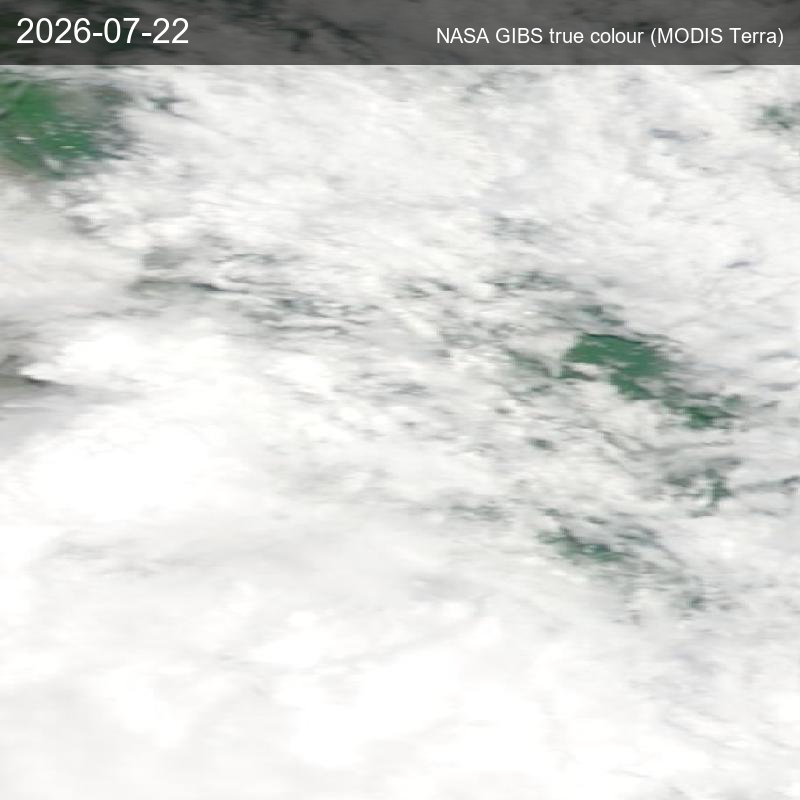
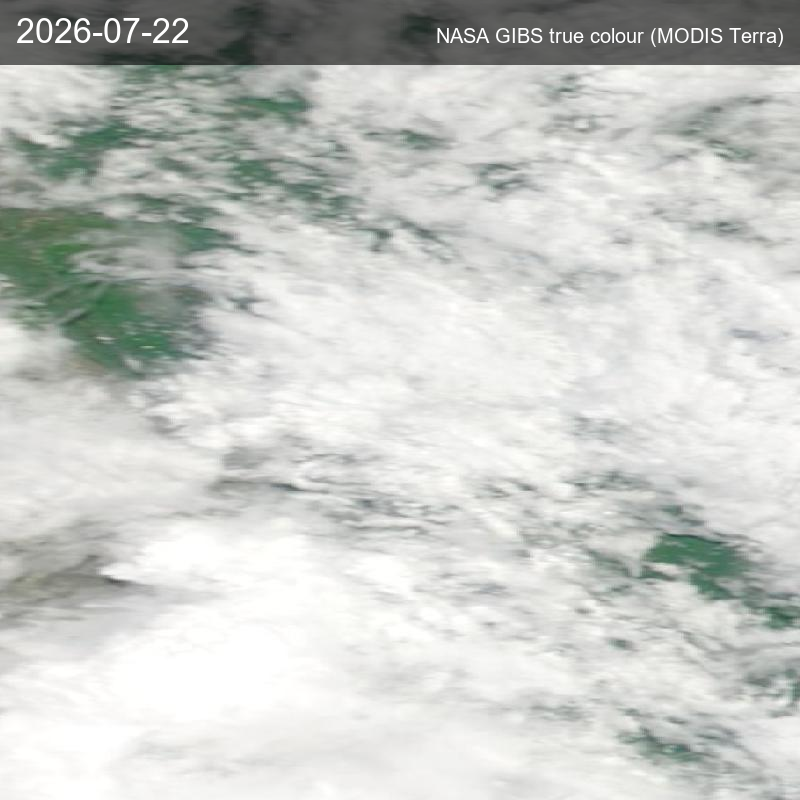
Make the GIBS July download reproducible and align the NASA dataset list with the form
Adds fetch_gibs_july.py and make_gibs_frames.py in place of the untracked
build_gibs.py. Regenerates the July frames from the documented bounding box.
Rewrites docs/NASA_DATASETS.md to follow the submission form and lists the
code and outputs for each dataset.

diff --git a/data/gibs/scripts/fetch_gibs_july.py b/data/gibs/scripts/fetch_gibs_july.py
@@ -1,0 +1,74 @@
+"""Fetch daily NASA GIBS true-colour tiles for the Chattogram Hill Tracts, July 2026.
+
+For each day 1 to 25 July:
+  1. Try MODIS Terra true colour (primary).
+  2. If that tile is blank (GIBS returns a small empty image for no-data days),
+     try VIIRS SNPP true colour.
+  3. If both are blank, record the day as a gap and skip it. Gaps are not filled.
+
+Raw tiles are written to data/gibs/raw/ and are not committed (see .gitignore).
+Run build_gibs.py afterwards to make the labelled frames.
+
+Usage: python fetch_gibs_july.py
+"""
+import os
+import time
+
+import requests
+
+GIBS_BASE = "https://gibs.earthdata.nasa.gov/wms/epsg4326/best/wms.cgi"
+MODIS = "MODIS_Terra_CorrectedReflectance_TrueColor"
+VIIRS = "VIIRS_SNPP_CorrectedReflectance_TrueColor"
+# Chattogram Hill Tracts, lon/lat, as listed in ML_Data_Sources_DRAFT.md.
+BBOX = (91.5, 21.5, 92.5, 23.5)
+SIZE = 800
+# Blank GIBS tiles are small JPEGs. These thresholds match build_gibs.py.
+MODIS_MIN_BYTES = 15000
+VIIRS_MIN_BYTES = 4100
+
+HERE = os.path.dirname(os.path.abspath(__file__))
+RAW = os.path.normpath(os.path.join(HERE, "..", "raw"))
+
+
+def fetch(layer, day):
+    qs = (
+        f"SERVICE=WMS&VERSION=1.1.1&REQUEST=GetMap&LAYERS={layer}"
+        f"&TIME={day}&SRS=EPSG:4326"
+        f"&BBOX={','.join(str(v) for v in BBOX)}"
+        f"&WIDTH={SIZE}&HEIGHT={SIZE}&FORMAT=image/jpeg"
+    )
+    for attempt in range(3):
+        try:
+            r = requests.get(GIBS_BASE + "?" + qs, timeout=60)
+            if r.status_code == 200:
+                return r.content
+        except requests.RequestException:
+            pass
+        time.sleep(2 * (attempt + 1))
+    return b""
+
+
+def main():
+    os.makedirs(RAW, exist_ok=True)
+    report = []
+    for d in range(1, 26):
+        day = f"2026-07-{d:02d}"
+        modis = fetch(MODIS, day)
+        if len(modis) > MODIS_MIN_BYTES:
+            with open(os.path.join(RAW, f"gibs_{day}.jpg"), "wb") as f:
+                f.write(modis)
+            report.append((day, "MODIS", len(modis)))
+            continue
+        viirs = fetch(VIIRS, day)
+        if len(viirs) > VIIRS_MIN_BYTES:
+            with open(os.path.join(RAW, f"viirs_{day}.jpg"), "wb") as f:
+                f.write(viirs)
+            report.append((day, "VIIRS", len(viirs)))
+        else:
+            report.append((day, "gap", 0))
+    for day, src, n in report:
+        print(day, src, n)
+
+
+if __name__ == "__main__":
+    main()

diff --git a/data/gibs/scripts/make_gibs_frames.py b/data/gibs/scripts/make_gibs_frames.py
@@ -1,0 +1,58 @@
+"""Label the raw GIBS tiles and write the frames and concat list for the video.
+
+Reads data/gibs/raw/ (written by fetch_gibs_july.py), writes data/gibs/frames/
+and data/gibs/list.txt. Days with no usable tile are reported and left out.
+
+Requires Pillow and a Windows arial font. Adjust FONT_DIR on other systems.
+"""
+import os
+
+from PIL import Image, ImageDraw, ImageFont
+
+HERE = os.path.dirname(os.path.abspath(__file__))
+DATA = os.path.normpath(os.path.join(HERE, ".."))
+RAW = os.path.join(DATA, "raw")
+FRAMES = os.path.join(DATA, "frames")
+MODIS_MIN_BYTES = 15000
+VIIRS_MIN_BYTES = 4100
+FONT_DIR = "C:/Windows/Fonts"
+
+
+def main():
+    font = ImageFont.truetype(os.path.join(FONT_DIR, "arial.ttf"), 34)
+    small = ImageFont.truetype(os.path.join(FONT_DIR, "arial.ttf"), 20)
+    os.makedirs(FRAMES, exist_ok=True)
+    names = []
+    for d in range(1, 26):
+        t = f"2026-07-{d:02d}"
+        src = None
+        m = os.path.join(RAW, f"gibs_{t}.jpg")
+        v = os.path.join(RAW, f"viirs_{t}.jpg")
+        if os.path.exists(m) and os.path.getsize(m) > MODIS_MIN_BYTES:
+            src = m
+            label = "NASA GIBS true colour (MODIS Terra)"
+        elif os.path.exists(v) and os.path.getsize(v) > VIIRS_MIN_BYTES:
+            src = v
+            label = "NASA GIBS true colour (VIIRS SNPP)"
+        if src is None:
+            print("gap", t)
+            continue
+        im = Image.open(src).convert("RGB").resize((800, 800))
+        dr = ImageDraw.Draw(im, "RGBA")
+        dr.rectangle([0, 0, 800, 64], fill=(0, 0, 0, 150))
+        dr.text((16, 12), t, font=font, fill="white")
+        w = dr.textlength(label, font=small)
+        dr.text((800 - w - 16, 24), label, font=small, fill="white")
+        rel = f"frames/f_{t}.png"
+        im.save(os.path.join(DATA, rel))
+        names.append(rel)
+        print(t, "<-", os.path.basename(src))
+    with open(os.path.join(DATA, "list.txt"), "w") as f:
+        for n in names:
+            f.write(f"file '{n}'\nduration 1\n")
+        f.write(f"file '{names[-1]}'\n")
+    print("frames", len(names))
+
+
+if __name__ == "__main__":
+    main()

diff --git a/docs/NASA_DATASETS.md b/docs/NASA_DATASETS.md
@@ -1,42 +1,73 @@
 # NASA and partner datasets used by Route200
 
-Each entry: dataset name, where to get it, and how Route200 uses it. Teknaf is the Chattogram Hill Tracts reference point (AOI 92.26–92.34 E, 21.51–21.59 N).
+Each entry gives the dataset, where to get it, how Route200 uses it, the code that builds it, and the processed outputs stored in this repo. Processed outputs are indexed in [data/README.md](../data/README.md). Teknaf is the Chattogram Hill Tracts reference point (AOI 92.26–92.34 E, 21.51–21.59 N).
 
-## NASA
+## NASA data
 
 ### 1. NISAR GCOV, Provisional (NISAR_L2_GCOV_PROVISIONAL_V1)
-- Link: https://search.earthdata.nasa.gov/search/granules?p=C2854338529-ASF (CMR concept C2854338529-ASF, hosted by ASF)
-- Access: NASA Earthdata Login, read through earthaccess (netrc), windowed HDF5 reads only
-- How we used it: four same-track, same-direction pass pairs over Teknaf (30 Jun to 12 Jul, 25 Jun to 19 Jul, 12 Jul to 24 Jul, and 30 Jun to 24 Jul). Backscatter (HHHH, 10 m, UTM 46N) was converted to dB, despeckled with a 15 px median, and differenced. Result: no pixel changed by 3 dB or more in the event window. The 30 Jun to 12 Jul pair was compared with the Sentinel-1 scar: 34.8% of 1 dB change pixels fall within 100 m of it, against a 17.3% background rate.
+
+- Link: https://search.earthdata.nasa.gov/search/granules?p=C2854338529-ASF (concept C2854338529-ASF, hosted by ASF)
+- Access: NASA Earthdata Login through `earthaccess` (netrc), windowed HDF5 reads only
+- How we used it: four same-track pass pairs over Teknaf: 30 Jun to 12 Jul, 25 Jun to 19 Jul, 12 Jul to 24 Jul, and 30 Jun to 24 Jul. HH backscatter (10 m, EPSG:32646) was converted to dB, despeckled with a 15 px median, and differenced after the median offset was removed.
+- Result: no pixel dropped by 3 dB or more in any pair (0.0% in all four). The 30 Jun to 12 Jul pair's 1 dB change pixels fall within 100 m of the Sentinel-1 scar at 34.8%, against a 17.3% background rate. That is about twice the background, which is weak.
 - Status: Provisional product, used as a negative check. Not a detection.
-- Scripts: `evidence/scripts/build_nisar_teknaf.py`, `nisar_teknaf_pairs.py`, `nisar_vs_s1_overlap.py`
-- Outputs: `evidence/nisar_teknaf_stats.json`, `evidence/nisar_teknaf_pairs.json`, `evidence/nisar_s1_overlap.json`
+- Code: `evidence/scripts/build_nisar_teknaf.py` (reader and filters), `nisar_teknaf_pairs.py` (pairs and statistics), `nisar_vs_s1_overlap.py` (scar overlap). Granule IDs are listed in `nisar_teknaf_pairs.py`.
+- Processed outputs: `data/nisar/teknaf/` (dB arrays, frames, sequence video), `data/nisar/no_change/` (difference array and video), `evidence/nisar_teknaf_stats.json`, `evidence/nisar_teknaf_pairs.json`, `evidence/nisar_s1_overlap.json`.
 
 ### 2. Landsat Collection 2 Level-2 surface reflectance (Landsat 5, 7, 8, 9)
+
 - Link: https://planetarycomputer.microsoft.com/dataset/landsat-c2-l2 (STAC collection `landsat-c2-l2`, anonymous access)
-- How we used it: NDVI from the red and NIR bands, mapped to a 0 to 1 density with one fixed formula. 21 samples over the Teknaf reference point from 10 Feb 1990 to 26 Sep 2026 drive the vegetation timeline in the Ground View and the scrub slider. Scenes with more than 30% of the local window flagged as cloud, shadow or Landsat 7 scan-line gaps were rejected.
-- Scripts: `evidence/scripts/build_ground_density_timeline.py`
-- Output: `web/public/ground-data/teknaf/density_timeline/`
+- How we used it: NDVI from the red and NIR bands, mapped to a 0 to 1 density with one fixed remap (`clip((NDVI - 0.0) / (0.9 - 0.0), 0, 1)`). 21 cloud-screened scenes at the Teknaf reference point, 10 Feb 1990 to 18 Oct 2026, drive the vegetation timeline and the scrub slider in the Ground View. Scenes where more than 30% of the local window is flagged as cloud, shadow or Landsat 7 scan-line gap were rejected.
+- Code: `evidence/scripts/build_ground_density_timeline.py`
+- Processed outputs: `web/public/ground-data/teknaf/density_timeline/` (one density grid per sample) and `density_timeline.json`, plus the sample table `data/landsat/teknaf_ndvi_samples.csv`.
+- Used in: the Ground View page (`web/app/map/[zoneId]/ground/`).
 
-### 3. NASA GIBS daily true-colour imagery (July 2026)
-- Link: https://earthdata.nasa.gov/gibs (WMS endpoint `https://gibs.earthdata.nasa.gov/wms/epsg4326/best/wms.cgi`)
-- Layers: `MODIS_Terra_CorrectedReflectance_TrueColor` (primary) and `VIIRS_SNPP_CorrectedReflectance_TrueColor` (for days MODIS had no data)
-- How we used it: daily frames of the Chattogram Hill Tracts, 1 to 25 July 2026, for the flood-context sequence in the video. Days with no data in either layer (11, 14, 16 July) are left out, not filled in. Most frames are cloud-covered, so the floods are hard to see in them.
-- Used in: the video (`video/animations/gibs/`), not in the web app.
+### 3. NASA GIBS true colour (MODIS Terra, with VIIRS SNPP where MODIS had no data)
 
-### 4. NASA GPM IMERG precipitation (via GIBS)
-- Layer: IMERG precipitation rate, served through the same GIBS WMS endpoint
-- How we used it: precipitation frames in each zone's evidence pack (`web/public/evidence/<zone>/precip_timeline/`) to show the rain before the July 2026 event.
-- Processed outputs and scripts: see `data/README.md`.
+- Link: https://earthdata.nasa.gov/gibs (WMS: `https://gibs.earthdata.nasa.gov/wms/epsg4326/best/wms.cgi`)
+- Layers: `MODIS_Terra_CorrectedReflectance_TrueColor` (primary), `VIIRS_SNPP_CorrectedReflectance_TrueColor` (fallback)
+- How we used it: daily frames of the Chattogram Hill Tracts, 1 to 25 July 2026, for the flood-context sequence in the video. Days with no data in either layer (11, 14 and 16 July) are left out, not filled in. Most frames are cloud-covered, so the floods are hard to see in them. VIIRS covers 6, 9, 19 and 24 July.
+- Code: `data/gibs/scripts/fetch_gibs_july.py` (download, bounding box 91.5, 21.5, 92.5, 23.5, 800 x 800 px), `data/gibs/scripts/make_gibs_frames.py` (labelled frames and concat list).
+- Processed outputs: `data/gibs/frames/` (22 frames), `data/gibs/list.txt`, `data/gibs/gibs_cht_july2026.mp4`, `media/gibs_full.mp4`.
+- Note: the video clips in `media/` were rendered from an earlier download of the same dates. The frames in `data/gibs/frames/` come from the script above, so they can differ slightly in framing from the clips.
+- Used in: the video only for the July flood sequence.
 
-## Other data (not NASA, for context)
+### 4. NASA GIBS IMERG precipitation
 
-- **Sentinel-1 RTC (Copernicus)**: Microsoft Planetary Computer, collection `sentinel-1-rtc`. The current change engine. Used for the per-zone before and after evidence pages and the Teknaf scar (May to November 2026).
-- **Copernicus DEM GLO-30**: Planetary Computer, `cop-dem-glo-30`. Real elevation for the Teknaf and Sonatola ground views.
-- **ESA WorldCover 10 m**: Planetary Computer, `esa-worldcover`. Land-cover density for the ground views.
-- **CEGIS historical erosion polygons**: reference ground truth for the Jamuna zones (planned use, not yet in the risk model).
+- Layer: `IMERG_Precipitation_Rate`, served through the same GIBS endpoint.
+- How we used it: precipitation frames for each hill zone's evidence pack, in the evidence page, to show the rain before and during the July 2026 event.
+- Code: `evidence/scripts/build_evidence.py` (`PRECIP_LAYER`, `part3_daily_gibs`)
+- Processed outputs: `web/public/evidence/<zone>/precip_timeline/`
+- Not in the original form list. Add it to the NASA entries of the submission.
 
-## Not yet used
+## Other space agency data (ESA and Copernicus)
 
+### 5. Sentinel-1 RTC (Copernicus, Sentinel-1 radar)
+
+- Link: https://planetarycomputer.microsoft.com/dataset/sentinel-1-rtc (collection `sentinel-1-rtc`, VV, radiometrically terrain-corrected)
+- Our current change engine. Before and after radar pairs for each zone's evidence page. The Teknaf scar comes from a May to November 2026 pair: `S1A_IW_GRDH_1SDV_20260504T234811_20260504T234836_064374_081B35_rtc` and `S1D_IW_GRDH_1SDV_20261105T115504_20261105T115529_005332_00A26C_rtc` (185 days apart).
+- Code: `evidence/scripts/build_evidence.py` (`part1_before_after`, `part2_july_sar`)
+- Processed outputs: `web/public/evidence/<zone>/` (before, after and difference PNGs, dated SAR frames, `manifest.json`).
+- Used in: the per-zone evidence pages.
+
+### 6. Copernicus DEM GLO-30 (30 m elevation)
+
+- Link: https://planetarycomputer.microsoft.com/dataset/cop-dem-glo-30
+- Real terrain height for the Teknaf and Sonatola ground views. Teknaf's reference point is 269.73 m above sea level. Sonatola's is 14.61 m.
+- Code: `evidence/scripts/build_ground_terrain.py`
+- Processed outputs: `web/public/ground-data/<zone>/heightmap.bin` and `meta.json`.
+- Used in: the Ground View page.
+
+### 7. ESA WorldCover 10 m (land cover)
+
+- Link: https://planetarycomputer.microsoft.com/dataset/esa-worldcover (2021 v200, items `ESA_WorldCover_10m_2021_v200_N21E090` for Teknaf and `N24E087` for Sonatola)
+- Land-cover density in the ground views, which sets how much forest or bare ground is drawn. Sonatola reads as cropland and bare ground, and Teknaf as closed forest.
+- Code: `evidence/scripts/build_ground_terrain.py` (land-cover to density grid, water class handling)
+- Processed outputs: `web/public/ground-data/<zone>/density.bin` and `disturbance.bin`.
+- Used in: the Ground View page.
+
+## Planned, not used yet
+
+- CEGIS historical erosion polygons: planned ground truth for the Jamuna zones. Not downloaded or used in any output.
 - NISAR GUNW (interferometric) products: not used. The pipeline does amplitude change detection.
-- NISAR Beta and Validated GCOV collections: searched, but the results above use only the Provisional collection.
+- NISAR Beta and Validated GCOV collections: searched, not used. The results above use only the Provisional collection.

diff --git a/PROGRESS.md b/PROGRESS.md
@@ -395,3 +395,14 @@ Goal: put every processed dataset used in the submission on GitHub, with its sou
 - `docs/NASA_DATASETS.md` adds the GPM IMERG layer, which the submission had not listed.
 - README status rewritten to say what is built with real data and what is not. GitHub description and topics set.
 - Not done: the change-detection engine as a running pipeline, the change-event API, alert delivery, Docker and CI, and `ARCHITECTURE.md` status marks. CEGIS polygons are listed as not used.
+
+## Phase 12: Submission NASA data made reproducible (2026-11-13)
+
+Checked the six datasets in the submission form against the repo.
+
+- NISAR: the form's numbers match `evidence/nisar_teknaf_stats.json`, `nisar_teknaf_pairs.json` and `nisar_s1_overlap.json` (0.0% over 3 dB in all four pairs; 34.8% against 17.3%). The text now says HH, not HHHH.
+- Landsat: 21 samples, 1990 to 2026 (last sample 18 Oct 2026), confirmed against `density_timeline.json`.
+- GIBS: the July download script was not in the repo. Added `data/gibs/scripts/fetch_gibs_july.py` (MODIS, VIIRS fallback, box 91.5, 21.5, 92.5, 23.5). Its gaps are 11, 14 and 16 July, the same as the form. Frames regenerated with `make_gibs_frames.py`. The earlier box could not be recovered; the closest candidate differed by about 21 grey levels per pixel.
+- Video note: `media/` and `data/gibs/gibs_cht_july2026.mp4` were rendered from the earlier download. Re-rendering would change the submitted video, so it is not done.
+- Sentinel-1 RTC, Copernicus DEM GLO-30, and ESA WorldCover: confirmed in `build_evidence.py`, `build_ground_terrain.py` and `web/public/ground-data/`.
+- `docs/NASA_DATASETS.md` rewritten to follow the form: NASA first, then other agencies. Each entry lists the code and outputs. Corrected: the GIBS frames are not video-only (the evidence pages show IMERG and VIIRS), and the Landsat end date is 18 Oct 2026.

diff --git a/data/README.md b/data/README.md
@@ -41,7 +41,8 @@ Density is `clip((NDVI - 0.0) / (0.9 - 0.0), 0, 1)`, a plain threshold remap. Sc
 | `gibs/frames/f_2026-07-<dd>.png` | Daily true-colour frames, 1 to 25 July 2026, MODIS with VIIRS fallback. 11, 14 and 16 July have no usable image and are left out. |
 | `gibs/list.txt` | Concat list for the frames |
 | `gibs/gibs_cht_july2026.mp4` | Flood-context sequence |
-| `gibs/scripts/build_gibs.py` | Frame builder |
+| `gibs/scripts/fetch_gibs_july.py` | Downloads the daily tiles into `gibs/raw/` (not committed). MODIS first, VIIRS when MODIS is blank. |
+| `gibs/scripts/make_gibs_frames.py` | Labels the tiles and writes `frames/` and `list.txt` |
 | `media/gibs_full.mp4` | Full-frame 1920x1080 version |
 | `../web/public/evidence/<zone>/precip_timeline/` | IMERG precipitation frames used in the zone evidence packs |
 
